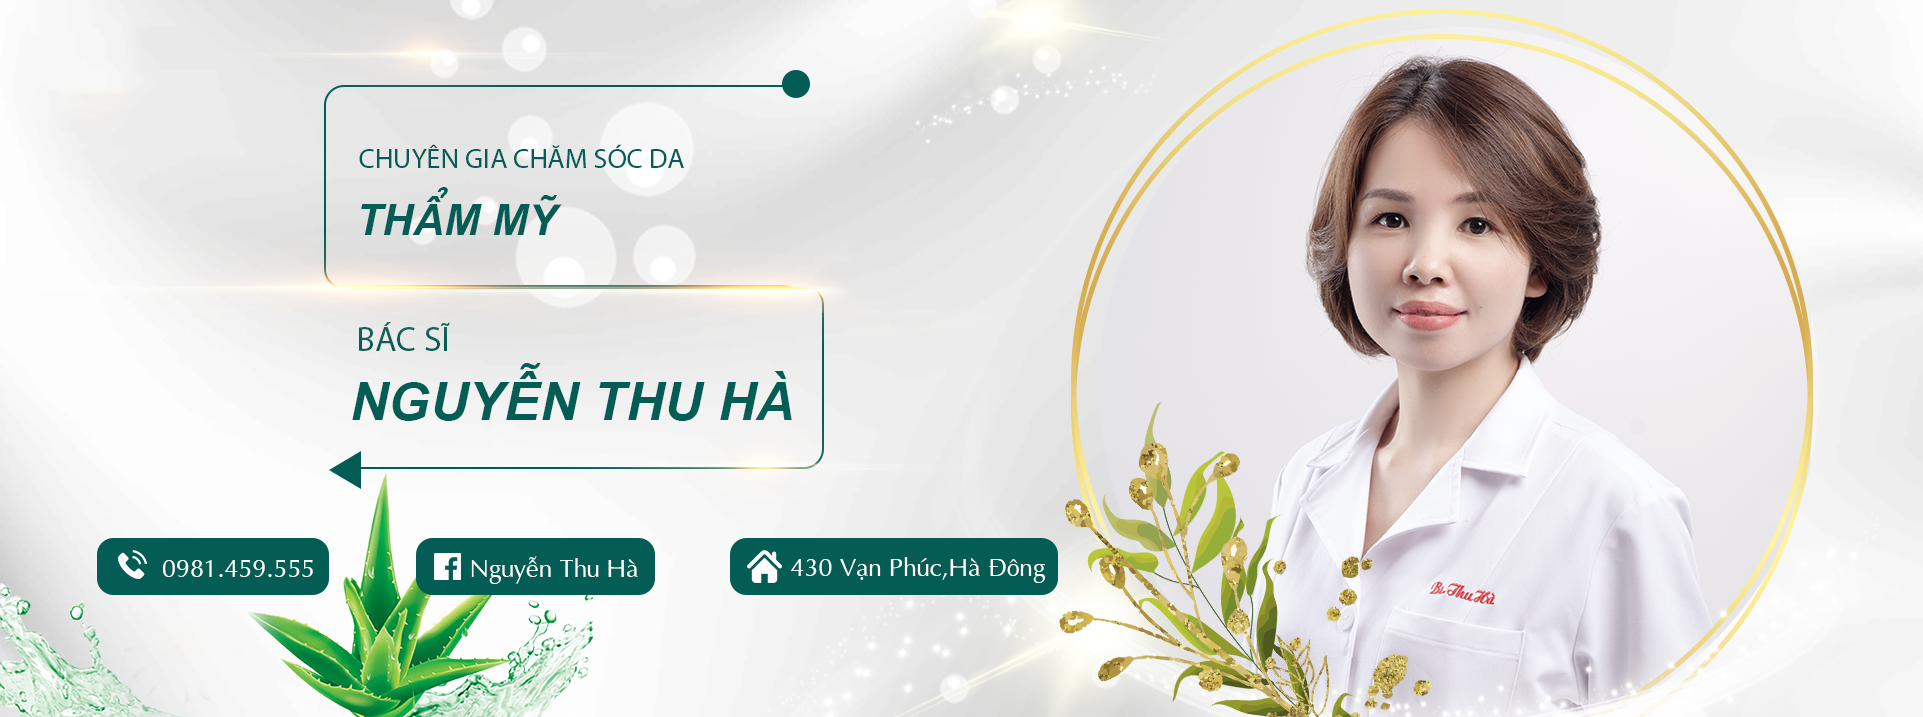
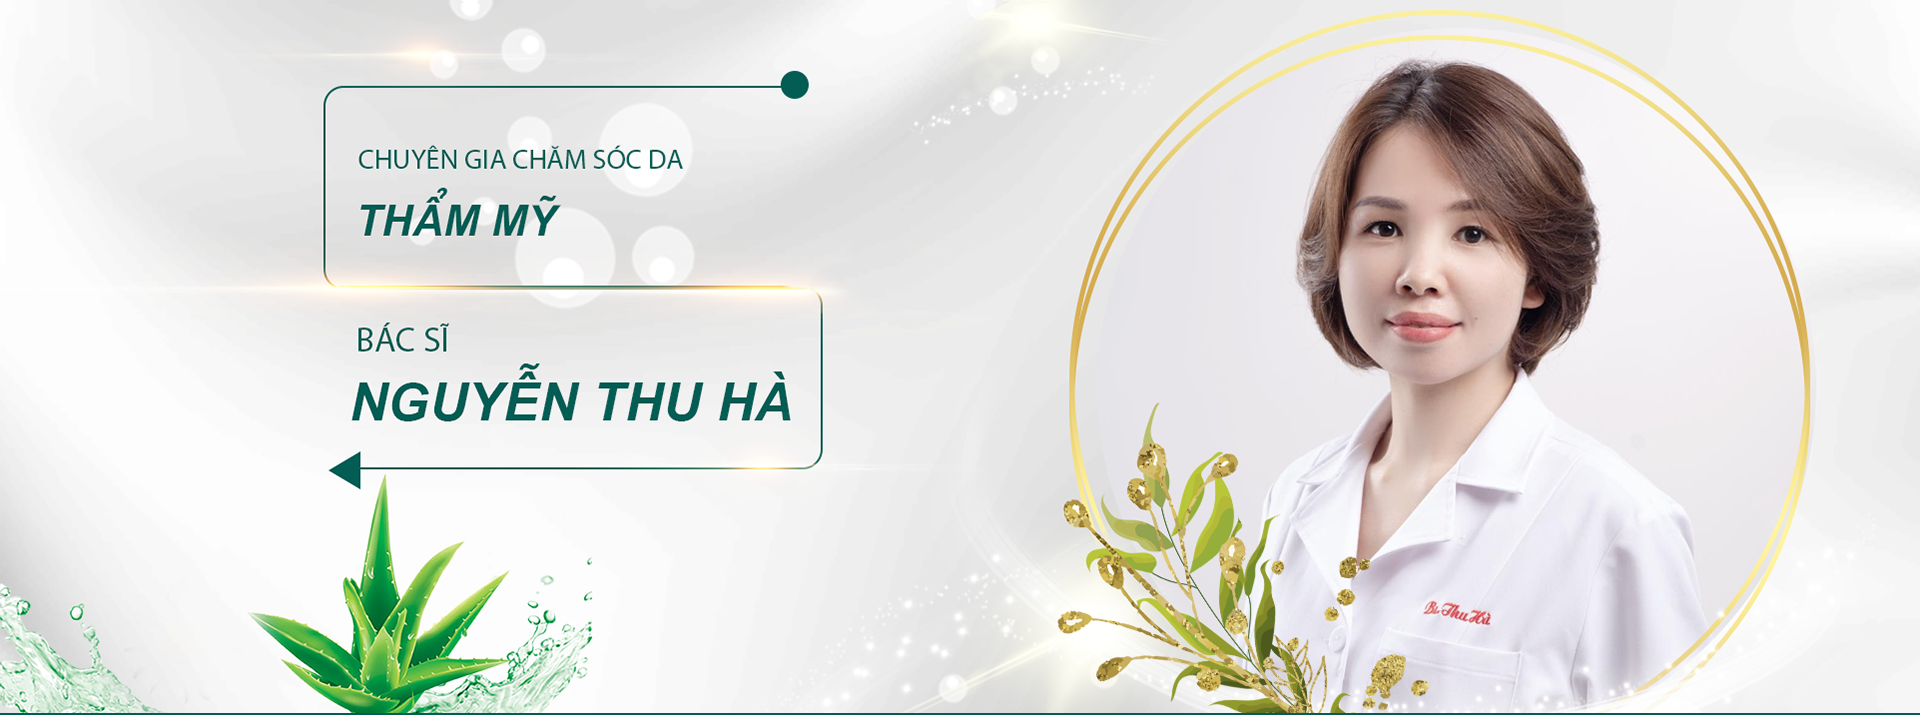
fix

diff --git a/index.html b/index.html
@@ -52,8 +52,11 @@
 	<section id="slider"><!--slider-->
 		<div class="container">
 			<div class="row">
-				<div class="col-sm-12">
+				<div class="col-sm-12 intro-img-holder">
 					<img src="img/home/bg_intro.png" width="100%" alt="">
+					<a href="tel:0981459555"><img class="detail-info phone" src="img/home/phone.png" alt=""></a>
+					<a href="https://www.facebook.com/bs.hagoldsilk" target="_blank"><img class="detail-info fb" src="img/home/fb.png" alt=""></a>
+					<a><img class="detail-info address-info" src="img/home/address.png" alt=""></a>
 				</div>
 			</div>
 			<div class="row">
@@ -83,11 +86,17 @@
 							<div class="product-image-wrapper">
 								<div class="single-products">
 										<div class="productinfo text-center">
-											<a href="https://www.facebook.com/B%C3%A1c-S%C4%A9-Thu-H%C3%A0-1896362813745162" target='_blank'>
+											<a id= "main-img" href="https://www.facebook.com/B%C3%A1c-S%C4%A9-Thu-H%C3%A0-1896362813745162" target='_blank'>
 												<img id="product-list" src="img/products/ob/1.png" width="100%" alt="" />
 											</a>
+											<img id="sale" src="img/home/sale.png" width="100" height="100" alt="" />
 											<!-- <p>Easy Polo Black Edition</p> -->
 											<!-- <a href="#" class="btn btn-default add-to-cart"><i class="fa fa-shopping-cart"></i>Add to cart</a> -->
+										</div>
+										<div class="text-center">
+											<a href="https://www.facebook.com/B%C3%A1c-S%C4%A9-Thu-H%C3%A0-1896362813745162" target='_blank'>
+												<img id="product-list" src="img/home/buy_small.png" alt="" />
+											</a>
 										</div>
 										<!-- <div class="product-overlay">
 											<div class="overlay-content">
@@ -110,7 +119,12 @@
 			<div class="container">
 				<div class="row">
 					<div class="col-sm-12">
-						<p>Giấy phép kinh doanh số 00109678253 do chính phủ cấp ngày 25/03/2021</p>
+						<p>Giấy phép kinh doanh số 0109495093 do chính phủ cấp ngày 14/01/2021</p>
+					</div>
+				</div>
+				<div class="row">
+					<div class="col-sm-12">
+						<p>CÔNG TY TNHH NGUYỄN HÀ VÀ CỘNG SỰ ( NGUYEN HA AND ASSOCIATES COMPANY LIMITED ) - NGUYEN HA AND ASSOCIATES CO.,LTD</p>
 					</div>
 				</div>
 				<div class="row">
@@ -123,7 +137,7 @@
 				</div>
 				<div class="row">
 					<div class="col-sm-12">
-						<p>SĐT liên hệ : 0981.459.555 hoặc gọi hotline : 037.88.88.88</p>
+						<p>SĐT liên hệ : 0981.459.555</p>
 					</div>
 				</div>
 				<div class="row">

diff --git a/css/responsive.css b/css/responsive.css
@@ -6,6 +6,11 @@
 /* md */
 
 @media (min-width: 992px) and (max-width: 1199px) {
+    .detail-info{
+        position: absolute;
+        height: 25px;
+        width: auto;
+    }
     .header-middle .btn-group .btn {
         padding-left: 8px;
         padding-right: 8px;
@@ -41,13 +46,18 @@
         text-align: center;
         /* margin-bottom: 150px; */
     }
+    .shop-menu ul li a {
+        padding-left: 0;
+        margin-top: 25px;
+    }
     .shop-menu ul{
         display: inline-block;
         float: none;
     }
-    .shop-menu ul li a {
-        padding-left: 0;
-        margin-top: 25px;
+    .detail-info{
+        position: absolute;
+        height: 25px;
+        width: auto;
     }
     #slider-carousel .item {
         padding-left: 30px;
@@ -117,6 +127,23 @@
 /* xs */
 
 @media (max-width: 767px) {
+    .detail-info{
+        position: absolute;
+        height: 25px;
+        width: auto;
+    }
+    .phone{
+        top: 80%;
+        left: 10%;
+    }
+    .fb{
+        top: 80%;
+        left: 28%;
+    }
+    .address-info{
+        top: 80%;
+        left: 46%;
+    }
     #cart_items .cart_info table{
         min-width: 600px;
     }
@@ -334,6 +361,7 @@
     }
     .shop-menu .nav.navbar-nav {
         margin-left: 0;
+        margin-top: 0;
     }
     .btn-group>.btn-group:last-child>.btn:first-child {
         margin-right: 0;
@@ -483,5 +511,39 @@
     }
     .product-information span span {
         float: none;
+    }
+    .detail-info{
+        position: absolute;
+        height: 15px;
+        width: auto;
+    }
+    .detail-info{
+        position: absolute;
+        height: 20px;
+        width: auto;
+    }
+    .phone{
+        top: 80%;
+        left: 10%;
+    }
+    .fb{
+        top: 80%;
+        left: 37%;
+    }
+    .address-info{
+        top: 80%;
+        left: 65%;
+    }
+    #product-list{
+        padding-top: 10px;
+        padding-right: 15px;
+    }
+    #sale{
+        position: absolute;
+        top: 0px;
+        right: 0px;
+        z-index: 100;
+        width: 10%;
+        height: auto;
     }
 }

diff --git a/css/main.css b/css/main.css
@@ -13,6 +13,45 @@ body {
 #main_content{
     /* background-color: #F7F7F7; */
 }
+.product-info{
+    position: relative;
+    display: block;
+}
+#product-list{
+    padding-top: 25px;
+    padding-right: 15px;
+}
+#sale{
+    position: absolute;
+    top: 0px;
+    right: 0px;
+    z-index: 100;
+}
+
+.intro-img-holder {
+    position: relative;
+    display: block;
+} 
+.detail-info{
+    position: absolute;
+    height: 35px;
+    width: auto;
+}
+#footer{
+    color:#035d54;
+}
+.phone{
+    top: 80%;
+    left: 10%;
+}
+.fb{
+    top: 80%;
+    left: 25%;
+}
+.address-info{
+    top: 80%;
+    left: 40%;
+}
 
 #header .header-middle .container {
     background-image: url("/img/home/bg_navbar.png");
@@ -28,6 +67,9 @@ ul li {
     font-size: 12px;
     padding-bottom: 8px;   
     list-style: none;
+}
+.funcBtn{
+    color: #035d54;
 }
 
 .funcBtn:active{

diff --git a/js/changeImage.js b/js/changeImage.js
@@ -39,6 +39,9 @@ $(document).ready(function () {
                 $(`#${cnt}`).on("click", function() {
                     console.log('name: ' + name + ' curindex: ' + curIndex);
                     $("#product-list").attr('src', imagePath + name + `/${curIndex}.png`);
+                    $('html, body').animate({
+                            scrollTop: $("#product-list").offset().top
+                        }, 500);
                 });
             })(name, curIndex);
             cnt++;
